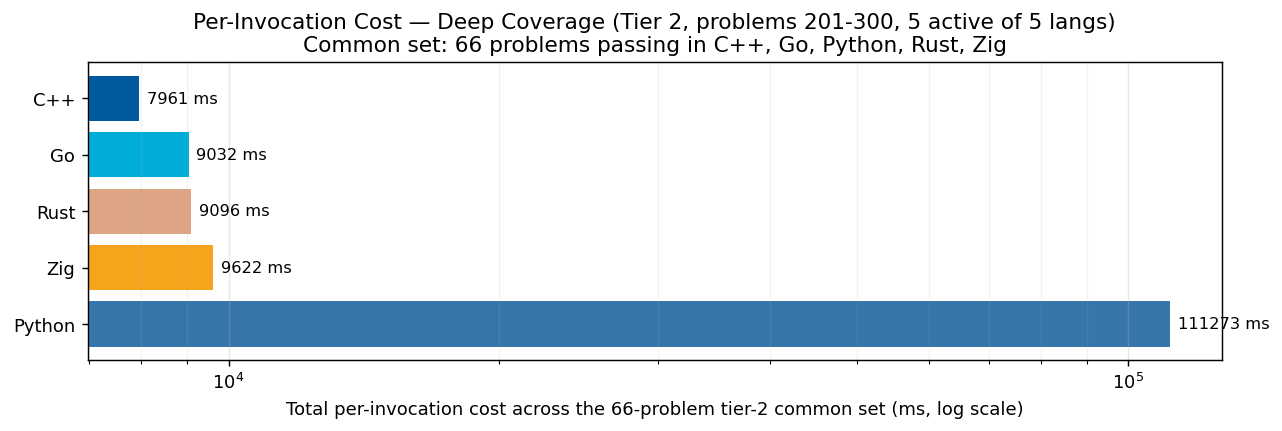
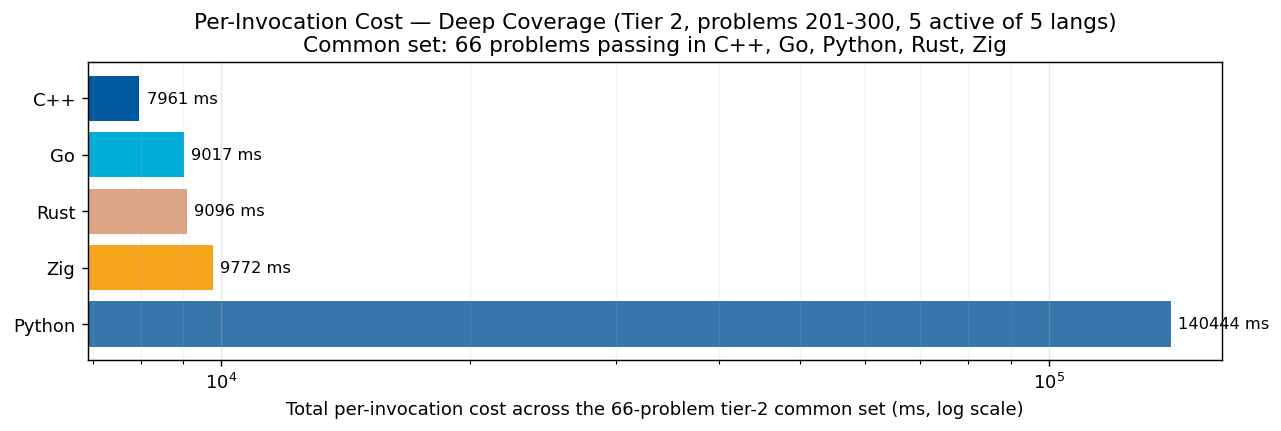
publish: cross-lang p254 correction (cpp/go/zig/python all now 8184523820510, fixing 3 cascading bugs)

diff --git a/per_problem/per_problem_201-300.md b/per_problem/per_problem_201-300.md
@@ -63,7 +63,7 @@ column per language in tier-1 display order (native → managed → interpreted)
 | **p251** | 2.94 s | 3.20 s | 3.57 s | 3.18 s | — |
 | **p252** | 250.13 ms | 319.63 ms | 257.24 ms | 426.81 ms | 375 ns |
 | **p253** | 60.9 µs | 72.3 µs | 25.1 µs | 71.2 µs | 1.47 ms |
-| **p254** | 381.33 ms | 350.31 ms | 355.10 ms | 446.54 ms | 333 ns |
+| **p254** | 381.33 ms | 350.31 ms | 505.27 ms* | 431.17 ms | 29.17 s |
 | **p255** | 465.74 ms | 482.98 ms | 666.09 ms | 623.47 ms | 458 ns |
 | **p256** | 1.03 s | 1.40 s | 1.10 s | 1.32 s | — |
 | **p257** | 370.36 ms | 361.28 ms | 378.97 ms | 394.40 ms | 2.07 s |
@@ -110,5 +110,7 @@ column per language in tier-1 display order (native → managed → interpreted)
 | **p298** | 161.16 ms | 12.59 ms | — | 17.01 ms | — |
 | **p299** | 257.83 ms | 302.88 ms | 265.79 ms | 402.83 ms | — |
 | **p300** | 37.35 s | 32.07 s | — | 6.46 s | — |
+
+> \* — *partial measurement*: cell was bench'd with fewer than the suite-standard 10 iterations (typically 1 or 3, for heavy problems where iters=10 would exceed the per-chunk wall budget). The median is still meaningful for >1s problems, but the variance estimate is degraded. These cells are queued for a future uniform-iters=10 re-bench pass.
 
 ⬅ [Back to RESULTS](../RESULTS.md)

diff --git a/RESULTS.md b/RESULTS.md
@@ -53,10 +53,10 @@ Same per-invocation metric, restricted to the deeper subset of languages (C++, G
 | Rank | Language | Total (66-problem common set) | Lines of code | vs Fastest |
 |------|----------|--------------------:|--------------:|-----------:|
 | 1 | **C++** | 7.96 s | 8,832 | 1.00× |
-| 2 | **Go** | 9.03 s | 6,485 | 1.13× |
+| 2 | **Go** | 9.02 s | 6,486 | 1.13× |
 | 3 | **Rust** | 9.10 s | 6,216 | 1.14× |
-| 4 | **Zig** | 9.62 s | 7,005 | 1.21× |
-| 5 | **Python** | 111.27 s | 4,430 | 13.98× |
+| 4 | **Zig** | 9.77 s | 7,003 | 1.23× |
+| 5 | **Python** | 140.44 s | 4,418 | 17.64× |
 
 ### Speed vs Code Size
 
